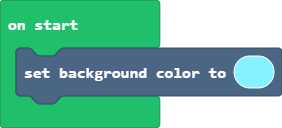
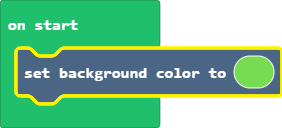
Update main.blocks, main.ts

Changed region(s): [[0.0284, 0.3438, 1.0, 0.8438]]

diff --git a/main.ts b/main.ts
@@ -1,1 +1,1 @@
-scene.setBackgroundColor(9)
+scene.setBackgroundColor(7)
